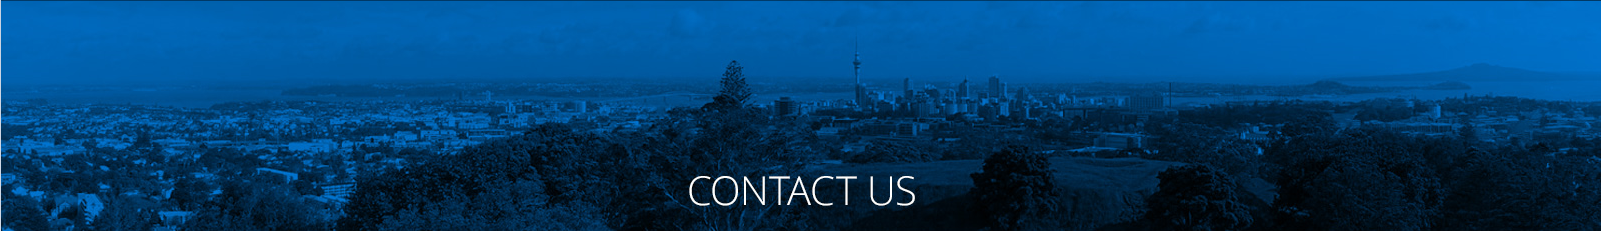
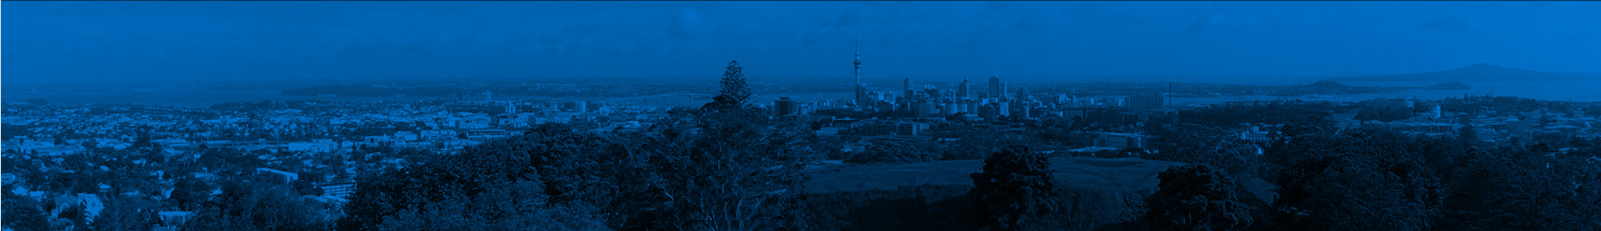
- contact us page

Changed region(s): [[0.406, 0.7576, 0.5934, 0.9697]]

diff --git a/themes/pixelgreen/css/layout.css b/themes/pixelgreen/css/layout.css
@@ -43,7 +43,7 @@ th {
 	border-bottom: solid 2px #FFF;
 }
 tr {
-	height: 30px;
+	 height: 22px;
 }
 td {
 	padding: 0;
@@ -179,12 +179,12 @@ input.button {
 	font-weight: normal;
 }
 #header-content li.navtext a:hover {
-	background: #65944A;
-	color: #FFF;
+	color: #87cefa;
+	text-decoration: none;
 }
 
 #header-content li.navtext span a.current  {
-	color: #FFF;
+	color: #fff;
 	border-bottom: 1px solid #fff;
 	padding-bottom: 3px;
 	font-weight: bolder;
@@ -473,11 +473,22 @@ ul#SearchResults li {
     width: 100%;
     height: 400px;
 }
+.hero_image {
+    position: relative;
+}
 .hero_image img {
     height: 230px;
     width: 100%;
 }
-
+.pagetitle {
+    bottom: 0;
+    font-size: 48px;
+    left: 0;
+    margin-bottom: 38px;
+    position: absolute;
+    right: 0;
+    color: #fff;
+}
 /* Homepage content
 ****************************************/
 .PageType_HomePage .typography{
@@ -495,4 +506,33 @@ ul#SearchResults li {
     font-size: 20px;
     font-weight: bolder;
     margin: 30px 0 10px 25px;
+}
+
+/* Contact Us Page
+****************************************/
+.team_contact {
+    margin: 40px 1px;
+}
+.team_contact p {
+    text-align: center;
+    font-size: 20px;
+}
+.team_contact p.big_contact_label {
+    font-weight: bolder;
+}
+.staff_contact_container {
+    border-top: 1px solid #c1cdcd;
+    padding-top: 25px;
+}
+.staff_contact_container div {
+    display: inline-flex;
+    width: 33%;
+    margin-bottom: 20px;
+    min-height: 90px;
+}
+.contact_name {
+    font-weight: bold;
+}
+.small_contact_label {
+    width: 50px;
 }

diff --git a/mysite/code/page/ContactUsPage.php b/mysite/code/page/ContactUsPage.php
@@ -11,6 +11,10 @@ class ContactUsPage extends Page {
 	static $has_many = array(
 			'StaffContacts'    => 'StaffContact'
 	);
+	
+	static $has_one = array (
+	
+	);
 
 	public function getCMSFields() {
 		$fields = parent::getCMSFields();
@@ -44,4 +48,46 @@ class ContactUsPage extends Page {
 }
 class ContactUsPage_Controller extends Page_Controller {
 
+	//public function init(){
+		//$this->StaffContacts = DataObject::get("StaffContact");
+	//}
+	
+	public function landLineExists(){
+		if ($this->Landline_no == null){
+			return false;
+		}
+		return true;
+	}
+	public function mobileNoExists(){
+		if ($this->Mobile_no == null){
+			return false;
+		}
+		return true;
+	}
+	public function faxNoExists(){
+		if ($this->Fax_no == null){
+			return false;
+		}
+		return true;
+	}
+	public function postalAddExists(){
+		if ($this->Postal_add == null){
+			return false;
+		}
+		return true;
+	}
+	public function teamEmailExists(){
+		//$tempo1 = DataObject::get("StaffContact");
+		//var_dump($this->StaffContacts); exit;
+		if ($this->Team_email == null){
+			return false;
+		}
+		return true;
+	}
+	
+	public function getStaffContacts(){
+		$contacts = DataObject::get("StaffContact");
+		return $contacts;
+	}
+	
 }
